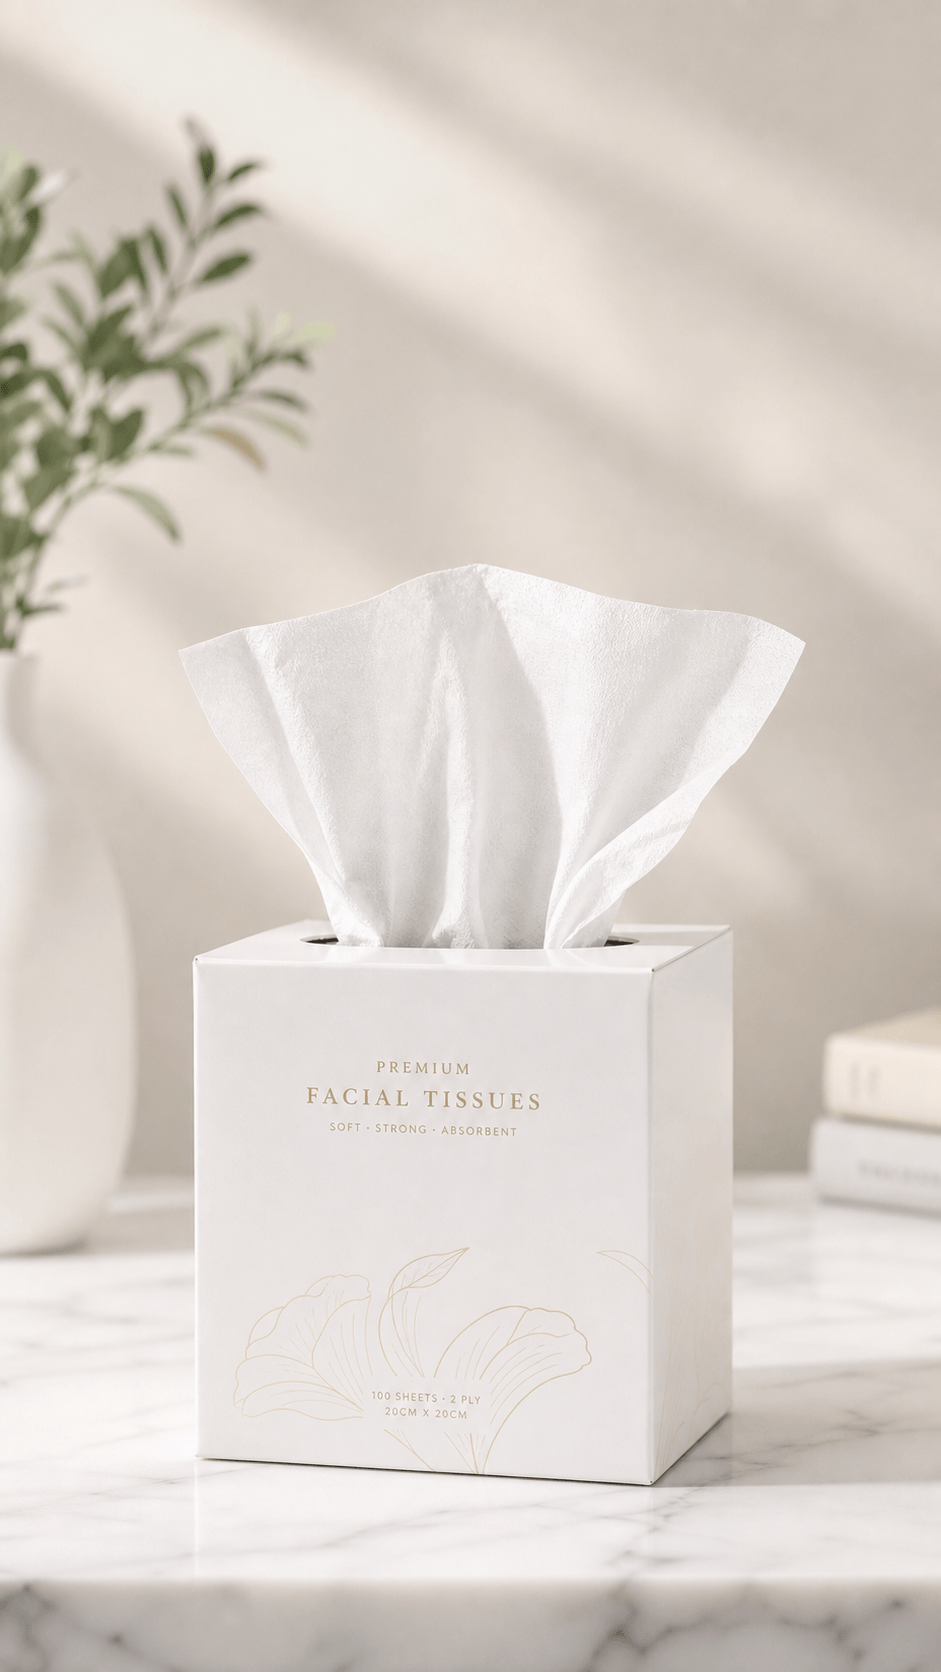
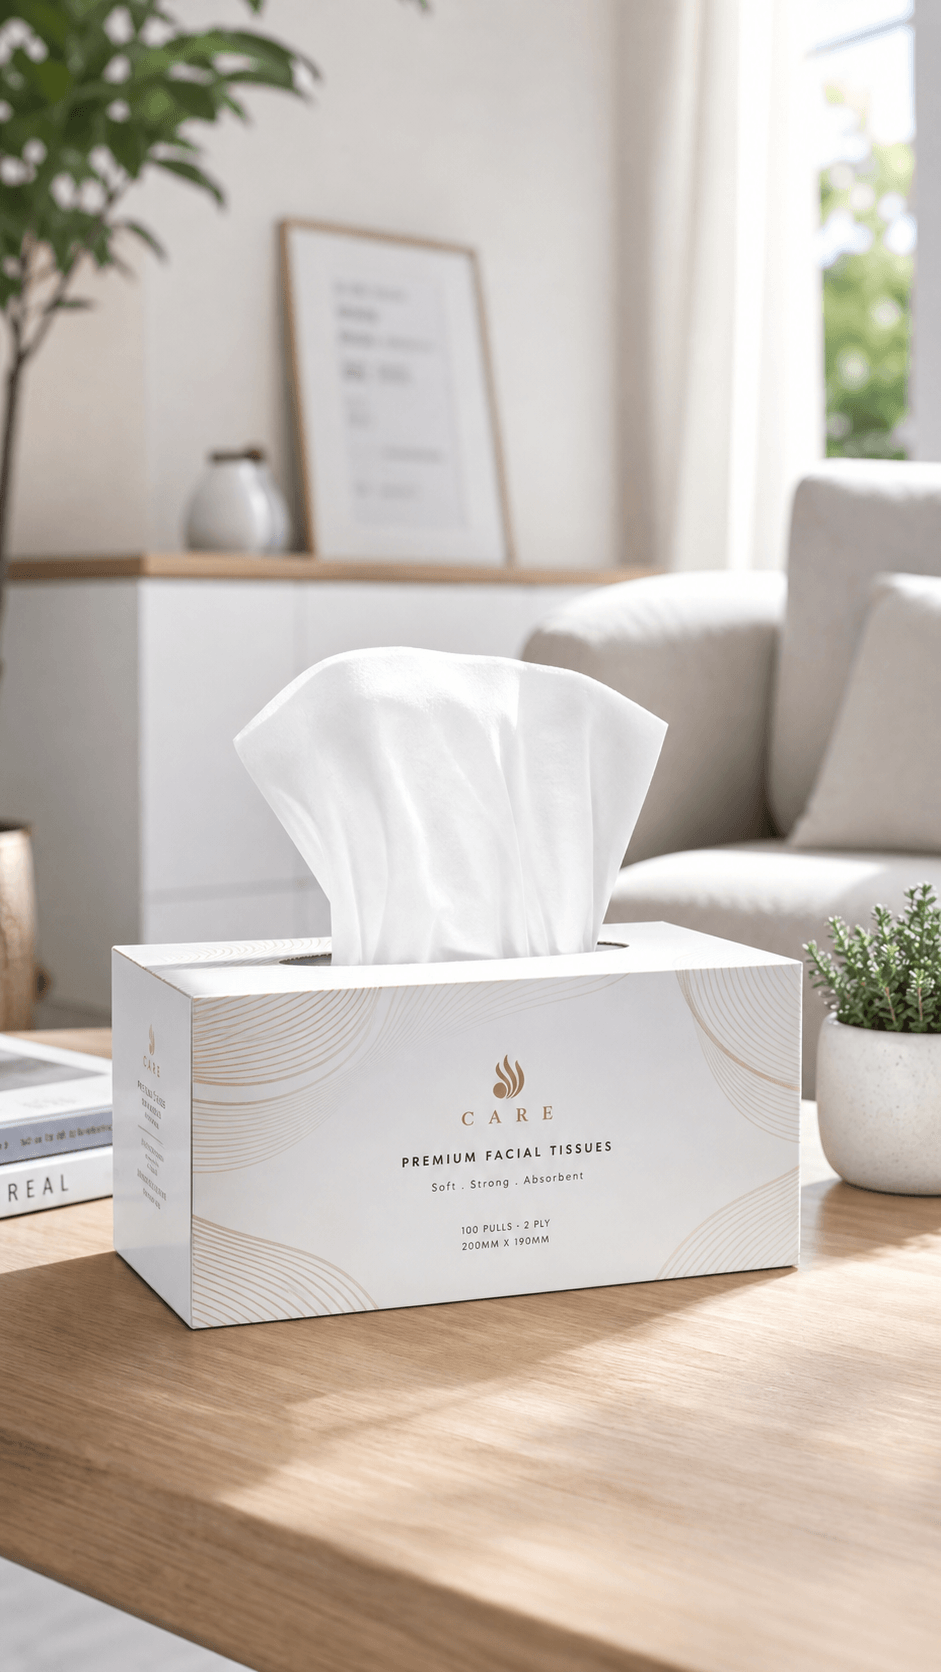
fix: 修复4+镜头合成因无效运镜丢片段崩溃(加static运镜+兜底)，字幕自适应放大加底框，示例样片升级为4镜头

diff --git a/src/lib/video-composer/composer.ts b/src/lib/video-composer/composer.ts
@@ -2,7 +2,7 @@ import { join } from "path";
 import { mkdir } from "fs/promises";
 import { existsSync } from "fs";
 import { TRANSITIONS, type TransitionMode } from "./transitions";
-import { MOTIONS } from "./motions";
+import { MOTIONS, DEFAULT_MOTION } from "./motions";
 
 /**
  * 探测一个可用的中文字体文件路径
@@ -102,15 +102,14 @@ export function buildComposeCommand(config: ComposeConfig): string {
 
   // 处理每个片段
   config.clips.forEach((clip, i) => {
-    if (clip.type === "image" && clip.motion) {
-      // 商品原图 + 运动效果
-      const motion = MOTIONS[clip.motion];
-      if (motion) {
-        inputs.push(`-loop 1 -t ${clip.duration} -i "${escapeShellPath(clip.filePath)}"`);
-        // 关键：zoompan 对每个输入帧输出 d 帧。-loop 产生多帧输入会导致帧数爆炸、视频被拉长数十倍，
-        // 因此先 trim 取首帧，再用 zoompan 的 d=duration*fps 控制总输出帧数。
-        filterParts.push(`[${i}:v]scale=${width}:${height}:force_original_aspect_ratio=decrease,pad=${width}:${height}:(ow-iw)/2:(oh-ih)/2,trim=end_frame=1,setpts=PTS-STARTPTS,${motion.getFilter(width, height, clip.duration)},setpts=PTS-STARTPTS[v${i}]`);
-      }
+    if (clip.type === "image") {
+      // 商品原图 + 运动效果。运镜键无效时回退到默认运镜，绝不跳过片段
+      // （否则 inputs/filter 数量与下方 concat 引用的 [v${i}] 不一致，导致 ffmpeg 崩溃）
+      const motion = (clip.motion && MOTIONS[clip.motion]) || MOTIONS[DEFAULT_MOTION];
+      inputs.push(`-loop 1 -t ${clip.duration} -i "${escapeShellPath(clip.filePath)}"`);
+      // 关键：zoompan 对每个输入帧输出 d 帧。-loop 产生多帧输入会导致帧数爆炸、视频被拉长数十倍，
+      // 因此先 trim 取首帧，再用 zoompan 的 d=duration*fps 控制总输出帧数。
+      filterParts.push(`[${i}:v]scale=${width}:${height}:force_original_aspect_ratio=decrease,pad=${width}:${height}:(ow-iw)/2:(oh-ih)/2,trim=end_frame=1,setpts=PTS-STARTPTS,${motion.getFilter(width, height, clip.duration)},setpts=PTS-STARTPTS[v${i}]`);
     } else {
       // 视频片段
       inputs.push(`-i "${escapeShellPath(clip.filePath)}"`);
@@ -184,10 +183,13 @@ export function buildComposeCommand(config: ComposeConfig): string {
   // 字幕
   if (config.subtitle?.texts.length) {
     const subtitleStream = `sub_out`;
-    const fontSize = config.subtitle.fontSize || 36;
+    // 字号按画面宽度自适应（约 5%），带货字幕需醒目；可被 config 覆盖
+    const fontSize = config.subtitle.fontSize || Math.round(width * 0.05);
     const fontColor = config.subtitle.color || "white";
-    const borderW = config.subtitle.strokeWidth || 2;
-    const yPos = config.subtitle.position === "top" ? "h*0.1" : config.subtitle.position === "center" ? "(h-text_h)/2" : "h*0.85";
+    const borderW = config.subtitle.strokeWidth || 3;
+    const yPos = config.subtitle.position === "top" ? "h*0.1" : config.subtitle.position === "center" ? "(h-text_h)/2" : "h*0.82";
+    // 半透明底框，提升可读性（带货短视频常见样式）
+    const boxArg = `box=1:boxcolor=black@0.45:boxborderw=${Math.round(fontSize * 0.35)}:`;
 
     // 中文字幕必须显式指定中文字体文件，否则渲染为方块
     const fontFile = config.subtitle.fontFile ?? resolveChineseFontFile();
@@ -196,7 +198,7 @@ export function buildComposeCommand(config: ComposeConfig): string {
     const drawTexts = config.subtitle.texts
       .map(
         (t) =>
-          `drawtext=${fontFileArg}text='${escapeDrawText(t.text)}':fontsize=${fontSize}:fontcolor=${fontColor}:borderw=${borderW}:x=(w-text_w)/2:y=${yPos}:enable='between(t,${t.startTime},${t.endTime})'`
+          `drawtext=${fontFileArg}text='${escapeDrawText(t.text)}':fontsize=${fontSize}:fontcolor=${fontColor}:borderw=${borderW}:${boxArg}x=(w-text_w)/2:y=${yPos}:enable='between(t,${t.startTime},${t.endTime})'`
       )
       .join(",");
 

diff --git a/src/lib/examples.ts b/src/lib/examples.ts
@@ -121,22 +121,16 @@ export const exampleShowcase: ExampleShowcase = {
   productName: "云柔加厚抽纸",
   category: "家居日用",
   styleLabel: "痛点种草",
-  totalDuration: 28,
+  totalDuration: 17,
   resolution: "1080p",
   aspectRatio: "9:16",
   cover: "/examples/tissue.png",
   videoUrl: "/examples/sample-tissue.mp4",
-  shots: exampleTemplates[0].shots.map((s, i) => ({
-    ...s,
-    voiceover:
-      i === 0
-        ? "你还在用一擦就破的纸巾？"
-        : i === 1
-        ? "普通纸巾一沾水就烂，擦个嘴满脸纸屑"
-        : i === 2
-        ? "直到我换上了这款云柔抽纸"
-        : i === 3
-        ? "加厚 3 层，湿水都不破，亲肤不掉屑"
-        : "整箱囤更划算，赶紧去抢！",
-  })),
+  // 与样片 sample-tissue.mp4 完全一致的 4 个镜头
+  shots: [
+    { shotId: 1, type: "hook", duration: 4, description: "客厅场景纸巾盒特写，缓慢推进", camera: "缓慢推进", visualSource: "product_image", transition: "ai_start_end", voiceover: "你还在用一擦就破的纸巾？", prompt: "" },
+    { shotId: 2, type: "demo", duration: 5, description: "纸巾吸水演示，湿水不破", camera: "俯拍特写", visualSource: "ai_generate", transition: "ai_start_end", voiceover: "加厚 3 层，湿水都不破", prompt: "" },
+    { shotId: 3, type: "product_reveal", duration: 4, description: "纸巾质感微距特写", camera: "微距推进", visualSource: "ai_generate", transition: "ai_start_end", voiceover: "原生木浆，亲肤不掉屑", prompt: "" },
+    { shotId: 4, type: "cta", duration: 4, description: "温馨家庭使用场景", camera: "固定", visualSource: "product_image", transition: "direct_concat", voiceover: "整箱囤更划算，赶紧抢！", prompt: "" },
+  ],
 };

diff --git a/src/lib/video-composer/motions.ts b/src/lib/video-composer/motions.ts
@@ -69,7 +69,21 @@ export const MOTIONS: Record<string, MotionConfig> = {
       return `zoompan=z='if(lt(on,${Math.floor(frames * 0.3)}),1+on*0.02,if(lt(on,${Math.floor(frames * 0.5)}),1.6-(on-${Math.floor(frames * 0.3)})*0.01,1.4))':x='iw/2-(iw/zoom/2)':y='ih/2-(ih/zoom/2)':d=${frames}:s=${w}x${h}:fps=${fps}`;
     },
   },
+  // 静止：不做运镜，仅按时长定格画面（输出格式与其它运镜一致，保证可与运镜片段拼接）
+  static: {
+    name: "static",
+    label: "静止",
+    description: "画面定格，无运镜",
+    getFilter: (w, h, d) => {
+      const fps = 30;
+      const frames = d * fps;
+      return `zoompan=z='1':x='iw/2-(iw/zoom/2)':y='ih/2-(ih/zoom/2)':d=${frames}:s=${w}x${h}:fps=${fps}`;
+    },
+  },
 };
+
+// 默认运镜：当指定的运镜键无效时回退，避免片段被静默丢弃
+export const DEFAULT_MOTION = "ken_burns";
 
 // 获取运动效果列表
 export function getMotionList(): MotionConfig[] {

diff --git a/src/lib/__tests__/backend.test.ts b/src/lib/__tests__/backend.test.ts
@@ -170,7 +170,8 @@ describe("buildComposeCommand", () => {
     expect(cmd).toContain("drawtext");
     expect(cmd).toContain("fontsize=40");
     expect(cmd).toContain("fontcolor=yellow");
-    expect(cmd).toContain("h*0.85"); // bottom 位置
+    expect(cmd).toContain("h*0.82"); // bottom 位置（带半透明底框，略上移）
+    expect(cmd).toContain("box=1:boxcolor=black@0.45"); // 字幕底框
   });
 
   it("文件路径含特殊字符时正确转义", () => {